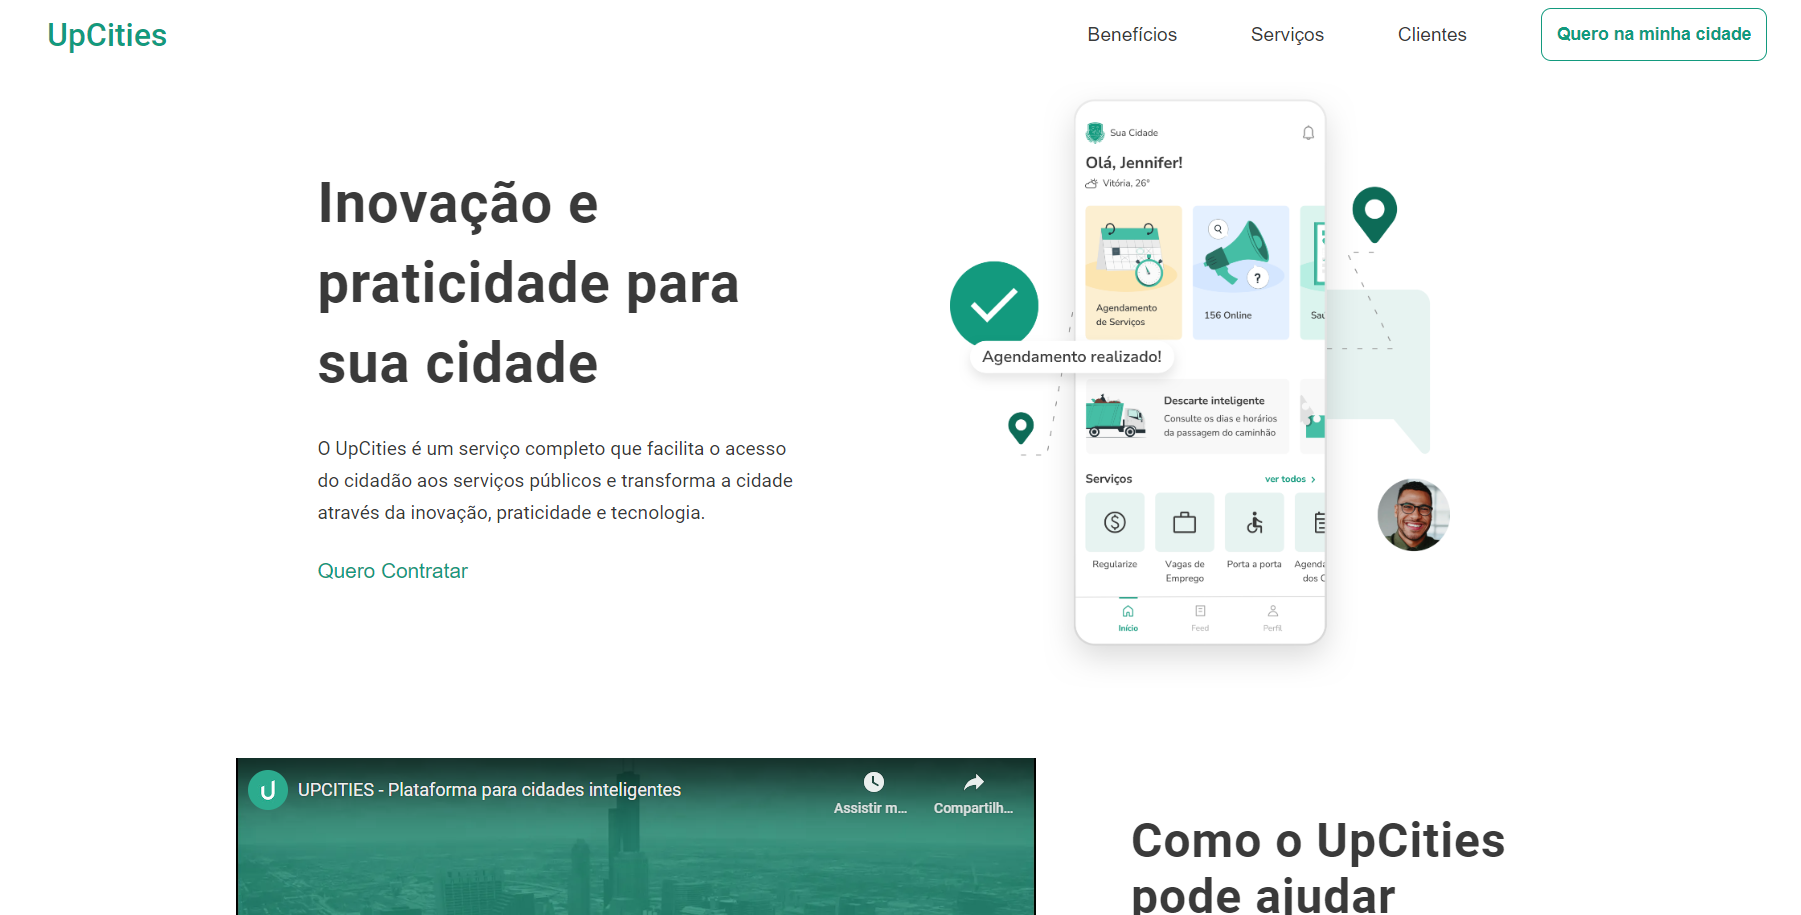
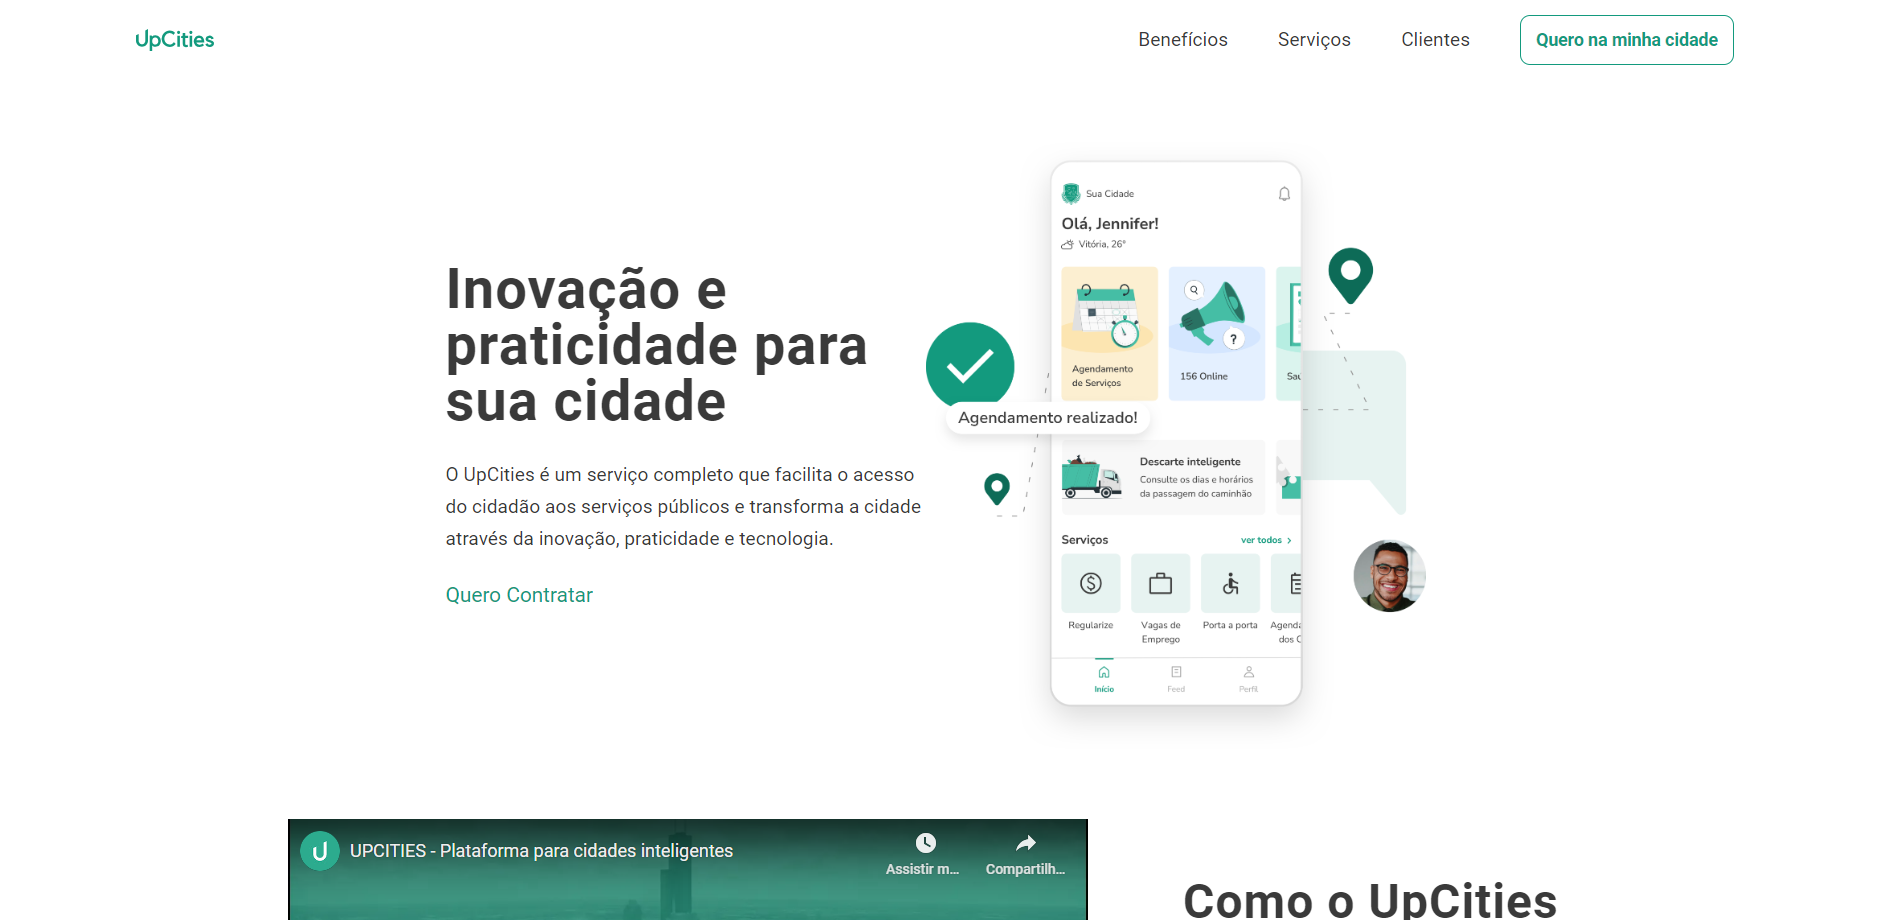
readme update

diff --git a/style.css b/style.css
@@ -128,13 +128,12 @@ a:visited{
     text-align: left;
     gap:30px;
     width: 30rem;
-   
 }
 .banner__text__title{
     color: var(--cor-da-fonte);
     font-weight: 600;
     font-size: 3.5rem;
-    line-height: 5rem;
+        
     letter-spacing: 1px;
 }
 .banner__text__info{
@@ -224,6 +223,7 @@ strong{
     font-size: 2.9rem;
     line-height: 5rem;
     letter-spacing: 1px;
+    text-align: left;
 }
 .facamais__text{
     color: var(--cor-da-fonte);
@@ -660,6 +660,20 @@ li:hover{
         flex-direction: column;
     }
 
+    .banner__text{
+        font-size: 1rem;
+        margin: 0 10px;
+    }
+
+    .banner__text__title{
+        width: 100%;
+        font-size: 1.5rem;
+        line-height: 1.5rem;
+    }
+    .banner__img{
+        max-width: 100%;
+        height: auto;
+    }
     .banner__video{
         flex-direction: column-reverse;
         align-items: center;
@@ -670,5 +684,9 @@ li:hover{
         align-items: center;
         margin-top: 0px;
         margin-bottom: 0px;
+    }
+
+    .facamais__text{
+        
     }
 }

diff --git a/index.html b/index.html
@@ -13,6 +13,11 @@
     <!-- HEADER -->
     <div class="menu" id="menu">
       <button type="button" ><i class="fa-solid fa-x" id="close"></i></button>
+      <ul>
+        <li>Benefícios</li>
+        <li>Serviços</li>
+        <li>Clientes</li>
+      </ul>
     </div>
     <nav class="nav">
       <a href="#home" class="nav__logo"
